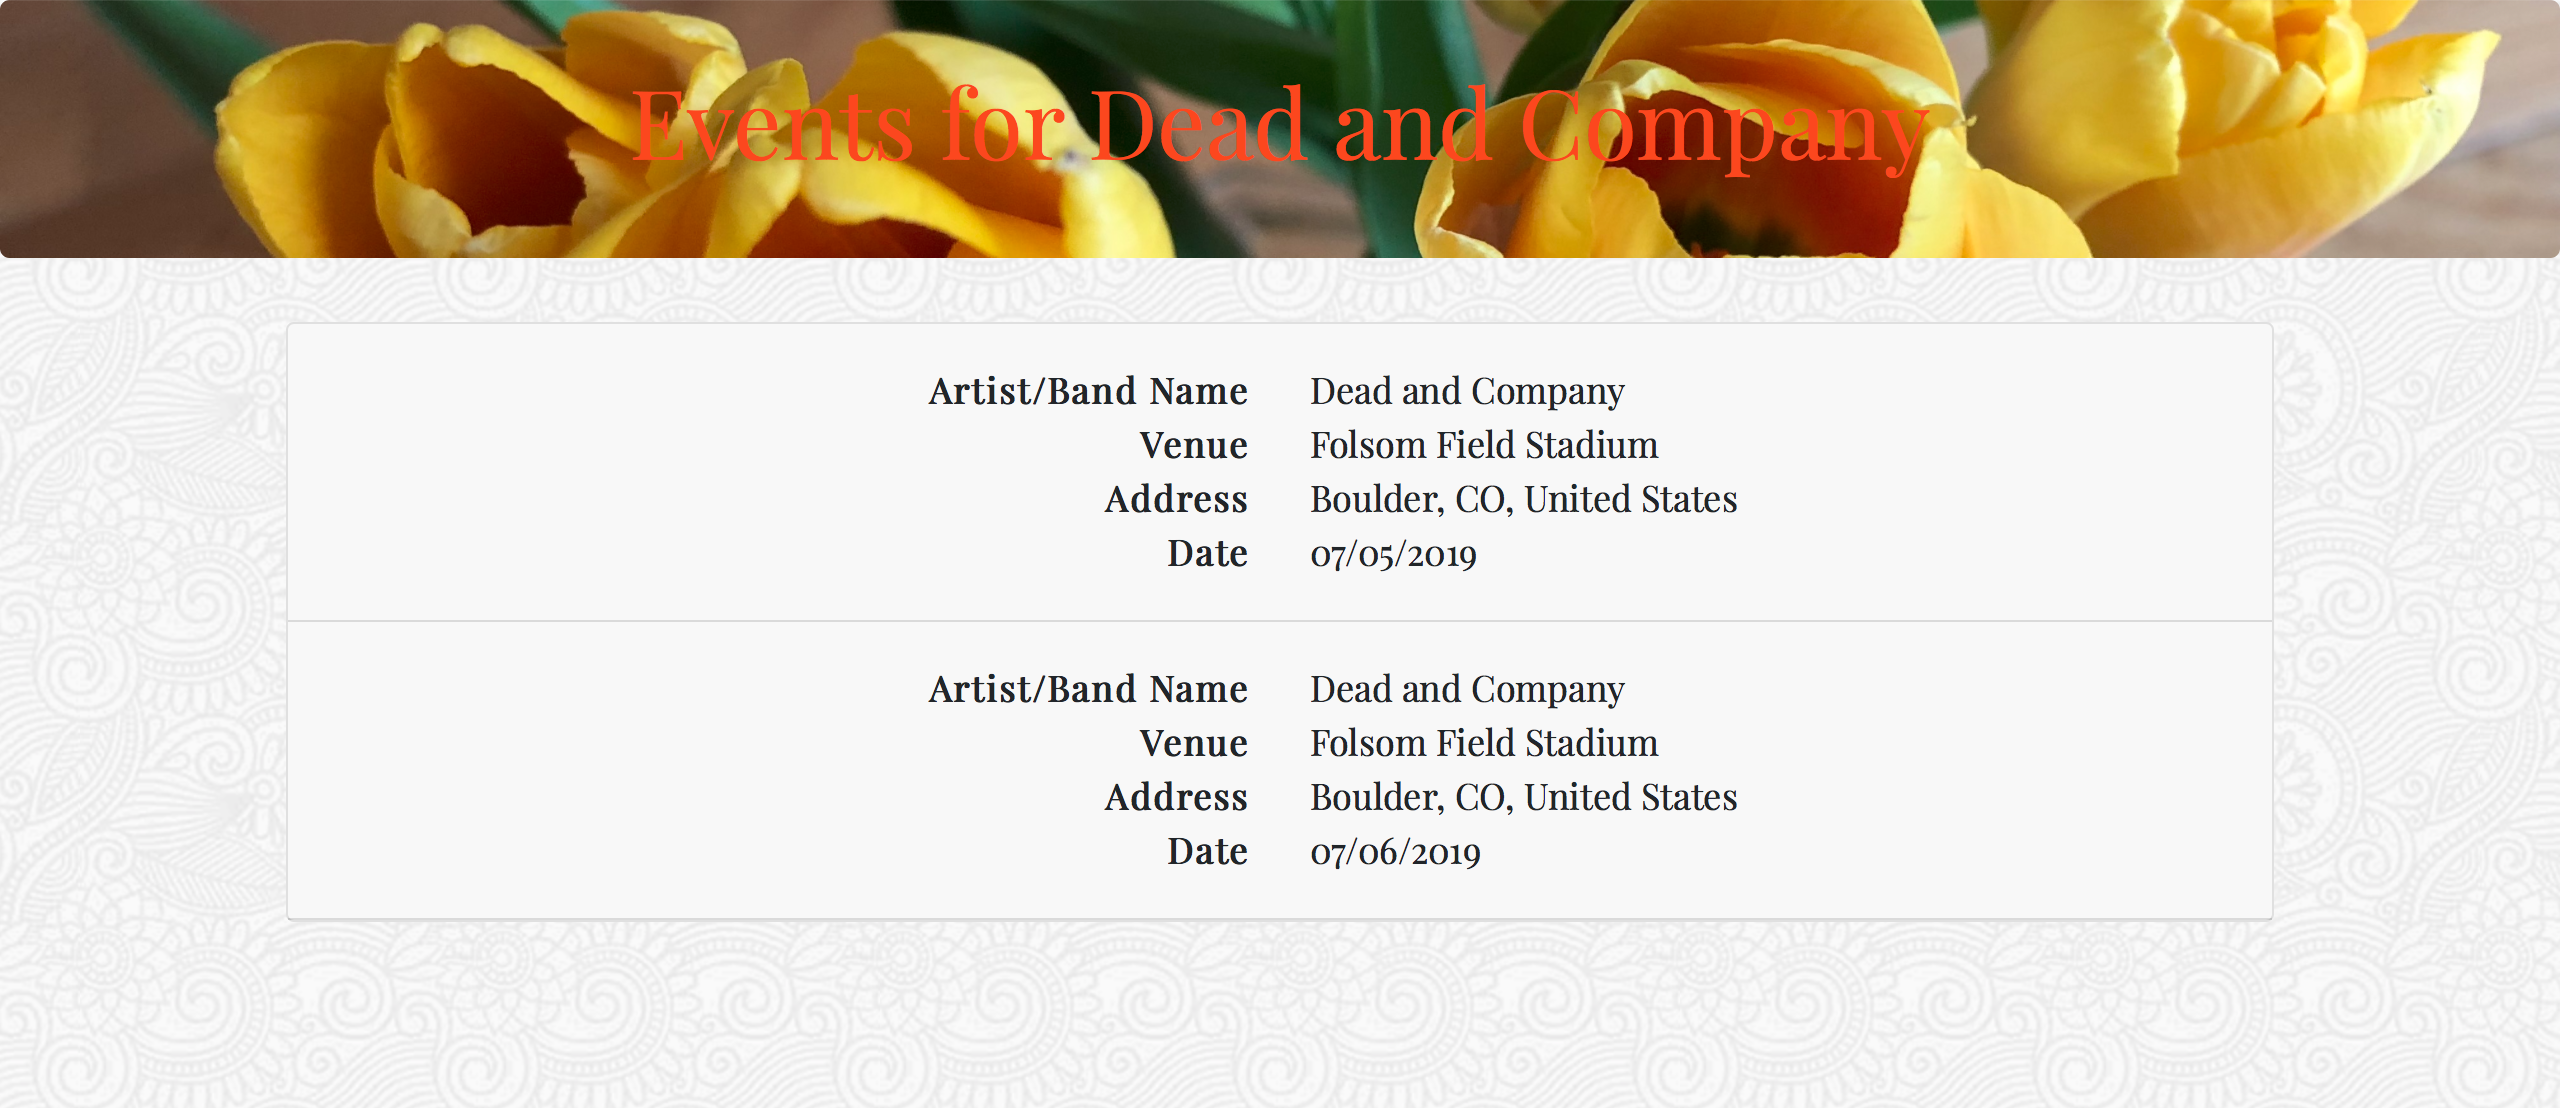
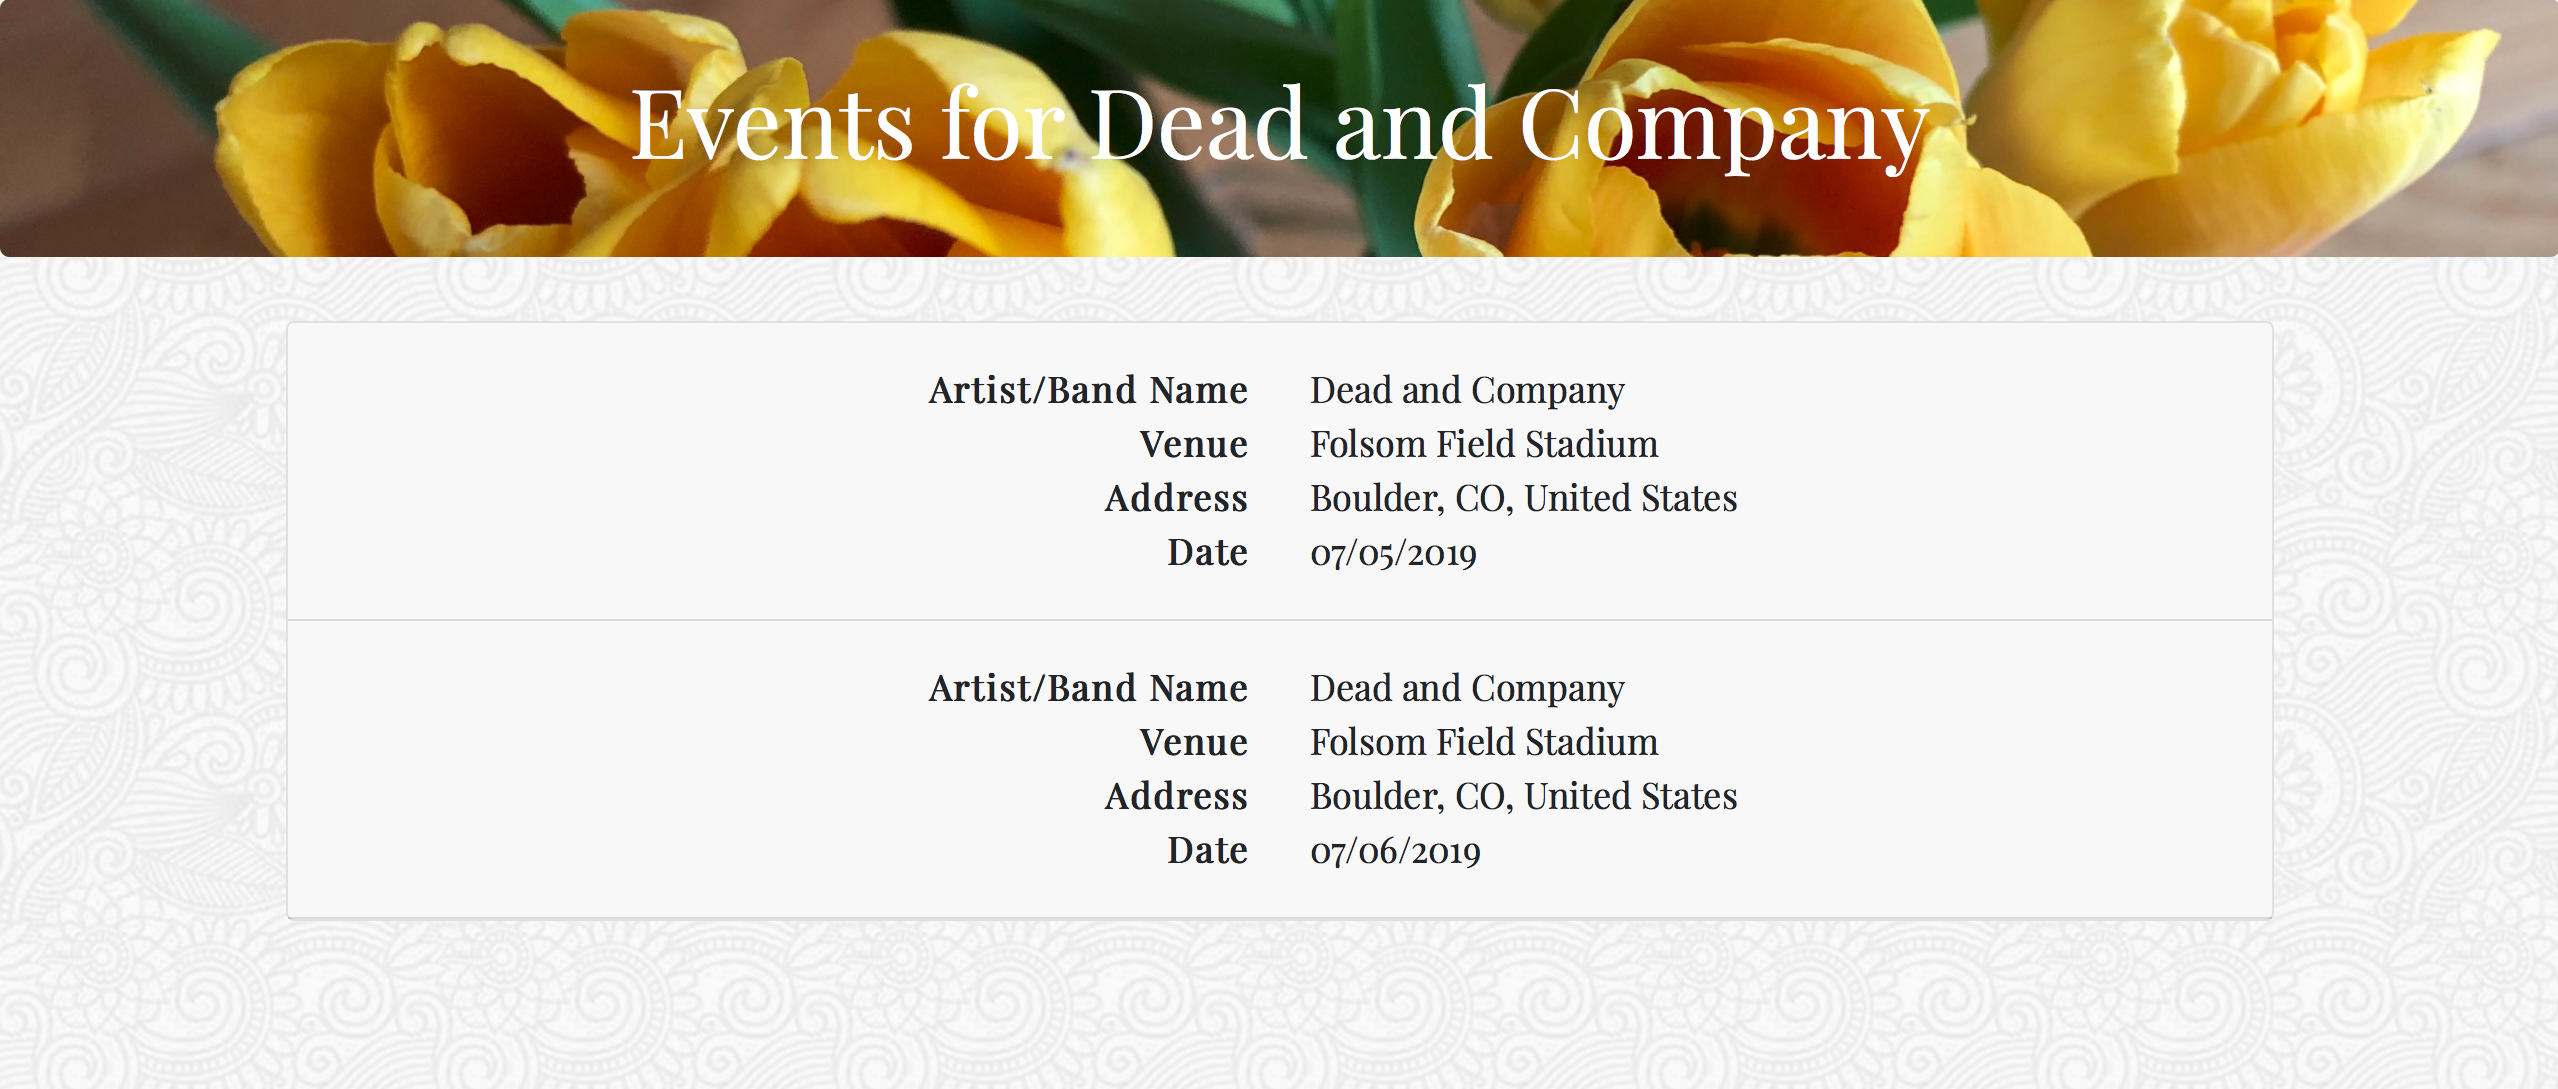
update

diff --git a/screenshot.html b/screenshot.html
@@ -54,16 +54,46 @@
         <div class="card mt-1">
             <div style="text-align:center;">
                 <h1>LIRI Screenshots</h1>
-                <div style="text-align:center;">
-                    <img class="myGallery" tabindex="1" src="assets/images/bg2.jpg" alt="Hotel Image">
-                    <img class="myGallery" tabindex="2" src="assets/images/bg2.jpg" alt="Hotel Image">
-                    <img class="myGallery" tabindex="3" src="assets/images/bg2.jpg" alt="Hotel Image">
-                    <img class="myGallery" tabindex="4" src="assets/images/bg2.jpg" alt="Hotel Image">
-                    <img class="myGallery" tabindex="5" src="assets/images/bg2.jpg" alt="Hotel Image">
-                    <img class="myGallery" tabindex="6" src="assets/images/bg2.jpg" alt="Hotel Image">
+                <div class="row">
+                    <div class="col-md-12">
+                        <img class="myGallery" tabindex="1" src="assets/images/step1.png" alt="Hotel Image">
+                    </div>
+                </div>
+                <div class="row">
+                    <div class="col-md-12">
+                        <img class="myGallery" tabindex="2" src="assets/images/step2.png" alt="Hotel Image">
+                    </div>
+                </div>
+                <div class="row">
+                    <div class="col-md-12">
+                        <img class="myGallery" tabindex="3" src="assets/images/step3.png" alt="Hotel Image">
+                    </div>
+                </div>
+                <div class="row">
+                    <div class="col-md-12">
+                        <img class="myGallery" tabindex="4" src="assets/images/step4.png" alt="Hotel Image">
+                        <img class="myGallery" tabindex="4" src="assets/images/step4a.png" alt="Hotel Image">
+                        <img class="myGallery" tabindex="4" src="assets/images/step4b.png" alt="Hotel Image">
+                        <img class="myGallery" tabindex="4" src="assets/images/step4c.png" alt="Hotel Image">
+                        <img class="myGallery" tabindex="4" src="assets/images/random.png" alt="Hotel Image">
+                    </div>
+                </div>
+                <div class="row">
+                    <div class="col-md-12">
+                        <img class="myGallery" tabindex="5" src="assets/images/step5.png" alt="Hotel Image">
+                        <img class="myGallery" tabindex="5" src="assets/images/step5a.png" alt="Hotel Image">
+                        <img class="myGallery" tabindex="5" src="assets/images/step5b.png" alt="Hotel Image">
+                        <img class="myGallery" tabindex="5" src="assets/images/step5c.png" alt="Hotel Image">
+                    </div>
+                </div>
+                <div class="row">
+                    <div class="col-md-12">
+                        <img class="myGallery" tabindex="6" src="assets/images/error.png" alt="Hotel Image">
+                    </div>
                 </div>
             </div>
         </div>
+    </div>
     </div>
 </body>
 

diff --git a/assets/css/style.css b/assets/css/style.css
@@ -25,7 +25,7 @@ p {
 .big {
     font-size: 3rem;
     font-weight: 1000;
-    color: #ff4501;
+    color: white; /* #ff4501 */
 }
 .boldTag {
     font-weight: 800;

diff --git a/README.md b/README.md
@@ -4,10 +4,14 @@ liri-node-app Homework by ***Cara Felise***
 LIRI means Language Interpretation and Recognition Interface. LIRI will be a command line node app that takes in parameters and gives you back data. LIRI will search Spotify for songs, Bands in Town for concerts, and OMDB for movies. 
 
 Link to Screenshots: <https://cfcrotty.github.io/liri-node-app/screenshot.html>
+
 Link to Video: <https://cfcrotty.github.io/liri-node-app/screenshot.html>
 
+### Sample Terminal Image:
 ![Sample Terminal Image](https://cfcrotty.github.io/liri-node-app/assets/images/step4.png)
-![Sample HTML Image](https://cfcrotty.github.io/liri-node-appassets/images/step5.png)
+
+### Sample HTML Image:
+![Sample HTML Image](https://cfcrotty.github.io/liri-node-app/assets/images/step5.png)
 
 ### How to Use:
 1. I am using Node.js packages(axios, colors, dotenv, inquirer, moment, and node-spotify-api) so you need to install dependencies using `npm i` in the terminal
